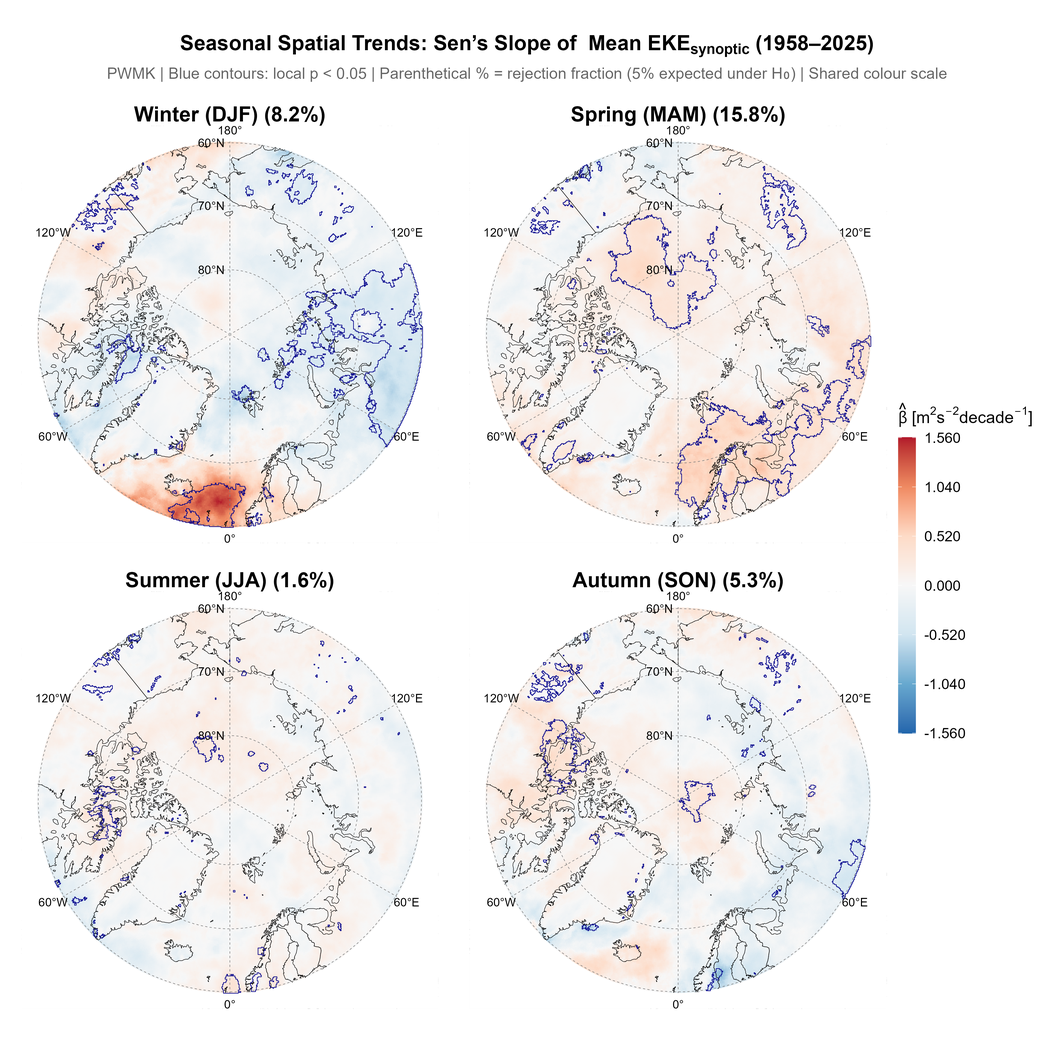
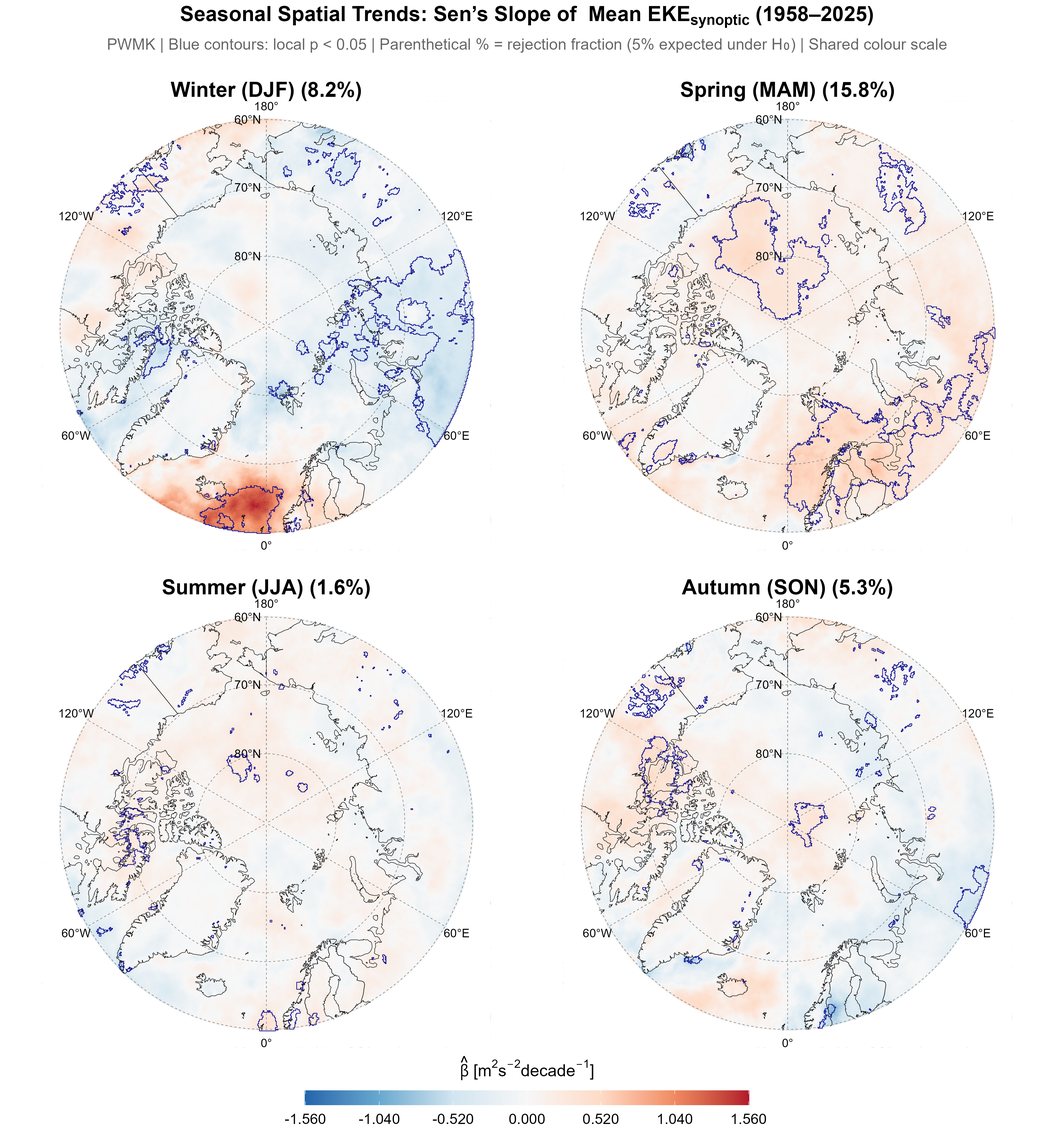
plots colorbar position

diff --git a/Storminess_analysis_full_framework.html b/Storminess_analysis_full_framework.html
@@ -4989,9 +4989,9 @@ Significant trends by season (α = 0.05 ):</code></pre>
 <span id="cb477-161"><a href="#cb477-161" aria-hidden="true" tabindex="-1"></a>  }</span>
 <span id="cb477-162"><a href="#cb477-162" aria-hidden="true" tabindex="-1"></a>}</span></code><button title="Copy to Clipboard" class="code-copy-button"><i class="bi"></i></button></pre></div>
 <div class="cell-output cell-output-stdout">
-<pre><code>[16:46:47 | +0.0 min] CACHE HIT: Loading precomputed spatial results from disk.
-[16:46:47 | +0.0 min]   Loaded 5 variable(s): eke_synoptic_mean, eke_p90, eke_p95, eke_p99, exceed_p95_freq
-[16:46:47 | +0.0 min]   All requested variables present. Skipping to PART B (figures).</code></pre>
+<pre><code>[18:06:42 | +0.0 min] CACHE HIT: Loading precomputed spatial results from disk.
+[18:06:42 | +0.0 min]   Loaded 5 variable(s): eke_synoptic_mean, eke_p90, eke_p95, eke_p99, exceed_p95_freq
+[18:06:42 | +0.0 min]   All requested variables present. Skipping to PART B (figures).</code></pre>
 </div>
 <div class="sourceCode cell-code" id="cb479"><pre class="sourceCode r code-with-copy"><code class="sourceCode r"><span id="cb479-1"><a href="#cb479-1" aria-hidden="true" tabindex="-1"></a><span class="cf">if</span> (<span class="sc">!</span><span class="fu">file.exists</span>(RESULTS_FILE) <span class="sc">||</span> FORCE_RECOMPUTE) {</span>
 <span id="cb479-2"><a href="#cb479-2" aria-hidden="true" tabindex="-1"></a></span>
@@ -5321,7 +5321,7 @@ Significant trends by season (α = 0.05 ):</code></pre>
 <span id="cb479-326"><a href="#cb479-326" aria-hidden="true" tabindex="-1"></a></span>
 <span id="cb479-327"><a href="#cb479-327" aria-hidden="true" tabindex="-1"></a><span class="fu">progress_msg</span>(<span class="st">"PHASE 3.4 PART B: GENERATING FIGURES"</span>)</span></code><button title="Copy to Clipboard" class="code-copy-button"><i class="bi"></i></button></pre></div>
 <div class="cell-output cell-output-stdout">
-<pre><code>[16:46:47 | +0.0 min] PHASE 3.4 PART B: GENERATING FIGURES</code></pre>
+<pre><code>[18:06:42 | +0.0 min] PHASE 3.4 PART B: GENERATING FIGURES</code></pre>
 </div>
 <div class="sourceCode cell-code" id="cb481"><pre class="sourceCode r code-with-copy"><code class="sourceCode r"><span id="cb481-1"><a href="#cb481-1" aria-hidden="true" tabindex="-1"></a><span class="fu">cat</span>(<span class="fu">rep</span>(<span class="st">"="</span>, <span class="dv">70</span>), <span class="st">"</span><span class="sc">\n\n</span><span class="st">"</span>)</span></code><button title="Copy to Clipboard" class="code-copy-button"><i class="bi"></i></button></pre></div>
 <div class="cell-output cell-output-stdout">
@@ -5377,7 +5377,7 @@ Significant trends by season (α = 0.05 ):</code></pre>
 <div class="sourceCode cell-code" id="cb494"><pre class="sourceCode r code-with-copy"><code class="sourceCode r"><span id="cb494-1"><a href="#cb494-1" aria-hidden="true" tabindex="-1"></a><span class="co"># ── B1: Cartographic setup ─────────────────────────────────────────────────</span></span>
 <span id="cb494-2"><a href="#cb494-2" aria-hidden="true" tabindex="-1"></a><span class="fu">progress_msg</span>(<span class="st">"B1: Setting up cartographic elements..."</span>)</span></code><button title="Copy to Clipboard" class="code-copy-button"><i class="bi"></i></button></pre></div>
 <div class="cell-output cell-output-stdout">
-<pre><code>[16:46:47 | +0.0 min] B1: Setting up cartographic elements...</code></pre>
+<pre><code>[18:06:42 | +0.0 min] B1: Setting up cartographic elements...</code></pre>
 </div>
 <div class="sourceCode cell-code" id="cb496"><pre class="sourceCode r code-with-copy"><code class="sourceCode r"><span id="cb496-1"><a href="#cb496-1" aria-hidden="true" tabindex="-1"></a>arctic_crs  <span class="ot">&lt;-</span> <span class="st">"+proj=laea +lat_0=90 +lon_0=0"</span></span>
 <span id="cb496-2"><a href="#cb496-2" aria-hidden="true" tabindex="-1"></a>view_radius <span class="ot">&lt;-</span> <span class="dv">3330000</span>   <span class="co"># clips at ~60 N data boundary</span></span>
@@ -5420,7 +5420,7 @@ Significant trends by season (α = 0.05 ):</code></pre>
 <span id="cb496-39"><a href="#cb496-39" aria-hidden="true" tabindex="-1"></a></span>
 <span id="cb496-40"><a href="#cb496-40" aria-hidden="true" tabindex="-1"></a><span class="fu">progress_msg</span>(<span class="st">"  Cartographic elements ready."</span>)</span></code><button title="Copy to Clipboard" class="code-copy-button"><i class="bi"></i></button></pre></div>
 <div class="cell-output cell-output-stdout">
-<pre><code>[16:46:47 | +0.0 min]   Cartographic elements ready.</code></pre>
+<pre><code>[18:06:42 | +0.0 min]   Cartographic elements ready.</code></pre>
 </div>
 <div class="sourceCode cell-code" id="cb498"><pre class="sourceCode r code-with-copy"><code class="sourceCode r"><span id="cb498-1"><a href="#cb498-1" aria-hidden="true" tabindex="-1"></a><span class="co"># ── B2: Plotting helpers ───────────────────────────────────────────────────</span></span>
 <span id="cb498-2"><a href="#cb498-2" aria-hidden="true" tabindex="-1"></a>make_stars_polar <span class="ot">&lt;-</span> <span class="cf">function</span>(mat, <span class="at">varname =</span> <span class="st">"value"</span>) {</span>
@@ -5586,129 +5586,160 @@ Significant trends by season (α = 0.05 ):</code></pre>
 <span id="cb498-162"><a href="#cb498-162" aria-hidden="true" tabindex="-1"></a>      <span class="st">"PWMK | Blue contours: local p &lt; {ALPHA_LOCAL} "</span>,</span>
 <span id="cb498-163"><a href="#cb498-163" aria-hidden="true" tabindex="-1"></a>      <span class="st">"({pct_ann}% of grid points; {ALPHA_LOCAL*100}% expected under H\u2080)"</span></span>
 <span id="cb498-164"><a href="#cb498-164" aria-hidden="true" tabindex="-1"></a>    )) <span class="sc">+</span></span>
-<span id="cb498-165"><a href="#cb498-165" aria-hidden="true" tabindex="-1"></a>    <span class="fu">theme</span>(<span class="at">plot.subtitle =</span> <span class="fu">element_text</span>(<span class="at">size =</span> SUBTITLE_SIZE, <span class="at">colour =</span> <span class="st">"grey40"</span>, <span class="at">hjust =</span> <span class="fl">0.5</span>))</span>
-<span id="cb498-166"><a href="#cb498-166" aria-hidden="true" tabindex="-1"></a></span>
-<span id="cb498-167"><a href="#cb498-167" aria-hidden="true" tabindex="-1"></a>  <span class="fu">ggsave</span>(<span class="fu">file.path</span>(FIG_PHASE3, cfg<span class="sc">$</span>fig_annual),</span>
-<span id="cb498-168"><a href="#cb498-168" aria-hidden="true" tabindex="-1"></a>         p_ann, <span class="at">width =</span> <span class="dv">10</span>, <span class="at">height =</span> <span class="dv">10</span>, <span class="at">dpi =</span> <span class="dv">300</span>, <span class="at">bg =</span> <span class="st">"white"</span>)</span>
-<span id="cb498-169"><a href="#cb498-169" aria-hidden="true" tabindex="-1"></a>  <span class="fu">progress_msg</span>(<span class="fu">sprintf</span>(<span class="st">"    Saved: %s"</span>, cfg<span class="sc">$</span>fig_annual))</span>
-<span id="cb498-170"><a href="#cb498-170" aria-hidden="true" tabindex="-1"></a></span>
-<span id="cb498-171"><a href="#cb498-171" aria-hidden="true" tabindex="-1"></a>  <span class="fu">rm</span>(slope_stars, sig_stars, p_ann)</span>
-<span id="cb498-172"><a href="#cb498-172" aria-hidden="true" tabindex="-1"></a></span>
-<span id="cb498-173"><a href="#cb498-173" aria-hidden="true" tabindex="-1"></a>  <span class="co"># ── Seasonal maps (2x2) ────────────────────────────────────────────────</span></span>
-<span id="cb498-174"><a href="#cb498-174" aria-hidden="true" tabindex="-1"></a>  <span class="co"># Shared scale across all four seasons: true max of absolute slopes</span></span>
-<span id="cb498-175"><a href="#cb498-175" aria-hidden="true" tabindex="-1"></a>  <span class="co"># across every season, so panels are directly comparable in magnitude.</span></span>
-<span id="cb498-176"><a href="#cb498-176" aria-hidden="true" tabindex="-1"></a>  slope_lim_seas <span class="ot">&lt;-</span> <span class="fu">max</span>(</span>
-<span id="cb498-177"><a href="#cb498-177" aria-hidden="true" tabindex="-1"></a>    <span class="fu">sapply</span>(res<span class="sc">$</span>seasonal, <span class="cf">function</span>(x) <span class="fu">max</span>(<span class="fu">abs</span>(x<span class="sc">$</span>slope), <span class="at">na.rm =</span> <span class="cn">TRUE</span>))</span>
-<span id="cb498-178"><a href="#cb498-178" aria-hidden="true" tabindex="-1"></a>  )</span>
-<span id="cb498-179"><a href="#cb498-179" aria-hidden="true" tabindex="-1"></a>  breaks_seas <span class="ot">&lt;-</span> <span class="fu">pretty_breaks_sym</span>(slope_lim_seas, <span class="at">n =</span> <span class="dv">7</span>L, <span class="at">max_dec =</span> cfg<span class="sc">$</span>max_dec)</span>
-<span id="cb498-180"><a href="#cb498-180" aria-hidden="true" tabindex="-1"></a></span>
-<span id="cb498-181"><a href="#cb498-181" aria-hidden="true" tabindex="-1"></a>  season_panels <span class="ot">&lt;-</span> <span class="fu">list</span>()</span>
-<span id="cb498-182"><a href="#cb498-182" aria-hidden="true" tabindex="-1"></a></span>
-<span id="cb498-183"><a href="#cb498-183" aria-hidden="true" tabindex="-1"></a>  <span class="cf">for</span> (seas <span class="cf">in</span> SEASONS) {</span>
-<span id="cb498-184"><a href="#cb498-184" aria-hidden="true" tabindex="-1"></a>    sr    <span class="ot">&lt;-</span> res<span class="sc">$</span>seasonal[[seas]]</span>
-<span id="cb498-185"><a href="#cb498-185" aria-hidden="true" tabindex="-1"></a>    sl_st <span class="ot">&lt;-</span> <span class="fu">make_stars_polar</span>(sr<span class="sc">$</span>slope, <span class="st">"slope"</span>)</span>
-<span id="cb498-186"><a href="#cb498-186" aria-hidden="true" tabindex="-1"></a>    sg_st <span class="ot">&lt;-</span> <span class="fu">make_stars_polar</span>(</span>
-<span id="cb498-187"><a href="#cb498-187" aria-hidden="true" tabindex="-1"></a>      <span class="fu">matrix</span>(<span class="fu">as.integer</span>(sr<span class="sc">$</span>sig_local), n_lat, n_lon), <span class="st">"sig_mask"</span>  <span class="co"># &lt;-- local p</span></span>
-<span id="cb498-188"><a href="#cb498-188" aria-hidden="true" tabindex="-1"></a>    )</span>
-<span id="cb498-189"><a href="#cb498-189" aria-hidden="true" tabindex="-1"></a></span>
-<span id="cb498-190"><a href="#cb498-190" aria-hidden="true" tabindex="-1"></a>    fill_s <span class="ot">&lt;-</span> <span class="fu">scale_fill_distiller</span>(</span>
-<span id="cb498-191"><a href="#cb498-191" aria-hidden="true" tabindex="-1"></a>      <span class="at">name      =</span> cfg<span class="sc">$</span>unit_expr,</span>
-<span id="cb498-192"><a href="#cb498-192" aria-hidden="true" tabindex="-1"></a>      <span class="at">palette   =</span> <span class="st">"RdBu"</span>,</span>
-<span id="cb498-193"><a href="#cb498-193" aria-hidden="true" tabindex="-1"></a>      <span class="at">direction =</span> <span class="sc">-</span><span class="dv">1</span>,</span>
-<span id="cb498-194"><a href="#cb498-194" aria-hidden="true" tabindex="-1"></a>      <span class="at">limits    =</span> <span class="fu">range</span>(breaks_seas),</span>
-<span id="cb498-195"><a href="#cb498-195" aria-hidden="true" tabindex="-1"></a>      <span class="at">breaks    =</span> breaks_seas,</span>
-<span id="cb498-196"><a href="#cb498-196" aria-hidden="true" tabindex="-1"></a>      <span class="at">labels    =</span> scales<span class="sc">::</span><span class="fu">label_number</span>(<span class="at">accuracy =</span> <span class="dv">5</span> <span class="sc">*</span> <span class="dv">10</span><span class="sc">^</span>(<span class="sc">-</span>cfg<span class="sc">$</span>max_dec)),</span>
-<span id="cb498-197"><a href="#cb498-197" aria-hidden="true" tabindex="-1"></a>      <span class="at">na.value  =</span> <span class="st">"transparent"</span>,</span>
-<span id="cb498-198"><a href="#cb498-198" aria-hidden="true" tabindex="-1"></a>      <span class="at">oob       =</span> scales<span class="sc">::</span>squish</span>
+<span id="cb498-165"><a href="#cb498-165" aria-hidden="true" tabindex="-1"></a>    <span class="fu">theme</span>(</span>
+<span id="cb498-166"><a href="#cb498-166" aria-hidden="true" tabindex="-1"></a>      <span class="at">plot.subtitle     =</span> <span class="fu">element_text</span>(<span class="at">size =</span> SUBTITLE_SIZE, <span class="at">colour =</span> <span class="st">"grey40"</span>,</span>
+<span id="cb498-167"><a href="#cb498-167" aria-hidden="true" tabindex="-1"></a>                                       <span class="at">hjust =</span> <span class="fl">0.5</span>, <span class="at">margin =</span> <span class="fu">margin</span>(<span class="at">b =</span> <span class="dv">15</span>)),</span>
+<span id="cb498-168"><a href="#cb498-168" aria-hidden="true" tabindex="-1"></a>      <span class="at">legend.position   =</span> <span class="st">"bottom"</span>,</span>
+<span id="cb498-169"><a href="#cb498-169" aria-hidden="true" tabindex="-1"></a>      <span class="at">legend.direction  =</span> <span class="st">"horizontal"</span>,</span>
+<span id="cb498-170"><a href="#cb498-170" aria-hidden="true" tabindex="-1"></a>      <span class="at">legend.title.position =</span> <span class="st">"top"</span>,</span>
+<span id="cb498-171"><a href="#cb498-171" aria-hidden="true" tabindex="-1"></a>      <span class="at">legend.title      =</span> <span class="fu">element_text</span>(<span class="at">size =</span> BASE_SIZE, <span class="at">hjust =</span> <span class="fl">0.5</span>),</span>
+<span id="cb498-172"><a href="#cb498-172" aria-hidden="true" tabindex="-1"></a>      <span class="at">legend.key.width  =</span> <span class="fu">unit</span>(<span class="fl">3.0</span>, <span class="st">"cm"</span>),</span>
+<span id="cb498-173"><a href="#cb498-173" aria-hidden="true" tabindex="-1"></a>      <span class="at">legend.key.height =</span> <span class="fu">unit</span>(<span class="fl">0.5</span>, <span class="st">"cm"</span>),</span>
+<span id="cb498-174"><a href="#cb498-174" aria-hidden="true" tabindex="-1"></a>      <span class="at">plot.margin       =</span> <span class="fu">margin</span>(<span class="dv">10</span>, <span class="dv">10</span>, <span class="dv">10</span>, <span class="dv">10</span>)</span>
+<span id="cb498-175"><a href="#cb498-175" aria-hidden="true" tabindex="-1"></a>    ) <span class="sc">+</span></span>
+<span id="cb498-176"><a href="#cb498-176" aria-hidden="true" tabindex="-1"></a>    <span class="fu">guides</span>(<span class="at">fill =</span> <span class="fu">guide_colorbar</span>(<span class="at">title.position =</span> <span class="st">"top"</span>, <span class="at">title.hjust =</span> <span class="fl">0.5</span>))</span>
+<span id="cb498-177"><a href="#cb498-177" aria-hidden="true" tabindex="-1"></a></span>
+<span id="cb498-178"><a href="#cb498-178" aria-hidden="true" tabindex="-1"></a>  <span class="fu">ggsave</span>(<span class="fu">file.path</span>(FIG_PHASE3, cfg<span class="sc">$</span>fig_annual),</span>
+<span id="cb498-179"><a href="#cb498-179" aria-hidden="true" tabindex="-1"></a>         p_ann, <span class="at">width =</span> <span class="dv">10</span>, <span class="at">height =</span> <span class="dv">11</span>, <span class="at">dpi =</span> <span class="dv">300</span>, <span class="at">bg =</span> <span class="st">"white"</span>)</span>
+<span id="cb498-180"><a href="#cb498-180" aria-hidden="true" tabindex="-1"></a>  <span class="fu">progress_msg</span>(<span class="fu">sprintf</span>(<span class="st">"    Saved: %s"</span>, cfg<span class="sc">$</span>fig_annual))</span>
+<span id="cb498-181"><a href="#cb498-181" aria-hidden="true" tabindex="-1"></a></span>
+<span id="cb498-182"><a href="#cb498-182" aria-hidden="true" tabindex="-1"></a>  <span class="fu">rm</span>(slope_stars, sig_stars, p_ann)</span>
+<span id="cb498-183"><a href="#cb498-183" aria-hidden="true" tabindex="-1"></a></span>
+<span id="cb498-184"><a href="#cb498-184" aria-hidden="true" tabindex="-1"></a>  <span class="co"># ── Seasonal maps (2x2) ────────────────────────────────────────────────</span></span>
+<span id="cb498-185"><a href="#cb498-185" aria-hidden="true" tabindex="-1"></a>  <span class="co"># Shared scale across all four seasons: true max of absolute slopes</span></span>
+<span id="cb498-186"><a href="#cb498-186" aria-hidden="true" tabindex="-1"></a>  <span class="co"># across every season, so panels are directly comparable in magnitude.</span></span>
+<span id="cb498-187"><a href="#cb498-187" aria-hidden="true" tabindex="-1"></a>  slope_lim_seas <span class="ot">&lt;-</span> <span class="fu">max</span>(</span>
+<span id="cb498-188"><a href="#cb498-188" aria-hidden="true" tabindex="-1"></a>    <span class="fu">sapply</span>(res<span class="sc">$</span>seasonal, <span class="cf">function</span>(x) <span class="fu">max</span>(<span class="fu">abs</span>(x<span class="sc">$</span>slope), <span class="at">na.rm =</span> <span class="cn">TRUE</span>))</span>
+<span id="cb498-189"><a href="#cb498-189" aria-hidden="true" tabindex="-1"></a>  )</span>
+<span id="cb498-190"><a href="#cb498-190" aria-hidden="true" tabindex="-1"></a>  breaks_seas <span class="ot">&lt;-</span> <span class="fu">pretty_breaks_sym</span>(slope_lim_seas, <span class="at">n =</span> <span class="dv">7</span>L, <span class="at">max_dec =</span> cfg<span class="sc">$</span>max_dec)</span>
+<span id="cb498-191"><a href="#cb498-191" aria-hidden="true" tabindex="-1"></a></span>
+<span id="cb498-192"><a href="#cb498-192" aria-hidden="true" tabindex="-1"></a>  season_panels <span class="ot">&lt;-</span> <span class="fu">list</span>()</span>
+<span id="cb498-193"><a href="#cb498-193" aria-hidden="true" tabindex="-1"></a></span>
+<span id="cb498-194"><a href="#cb498-194" aria-hidden="true" tabindex="-1"></a>  <span class="cf">for</span> (seas <span class="cf">in</span> SEASONS) {</span>
+<span id="cb498-195"><a href="#cb498-195" aria-hidden="true" tabindex="-1"></a>    sr    <span class="ot">&lt;-</span> res<span class="sc">$</span>seasonal[[seas]]</span>
+<span id="cb498-196"><a href="#cb498-196" aria-hidden="true" tabindex="-1"></a>    sl_st <span class="ot">&lt;-</span> <span class="fu">make_stars_polar</span>(sr<span class="sc">$</span>slope, <span class="st">"slope"</span>)</span>
+<span id="cb498-197"><a href="#cb498-197" aria-hidden="true" tabindex="-1"></a>    sg_st <span class="ot">&lt;-</span> <span class="fu">make_stars_polar</span>(</span>
+<span id="cb498-198"><a href="#cb498-198" aria-hidden="true" tabindex="-1"></a>      <span class="fu">matrix</span>(<span class="fu">as.integer</span>(sr<span class="sc">$</span>sig_local), n_lat, n_lon), <span class="st">"sig_mask"</span>  <span class="co"># &lt;-- local p</span></span>
 <span id="cb498-199"><a href="#cb498-199" aria-hidden="true" tabindex="-1"></a>    )</span>
 <span id="cb498-200"><a href="#cb498-200" aria-hidden="true" tabindex="-1"></a></span>
-<span id="cb498-201"><a href="#cb498-201" aria-hidden="true" tabindex="-1"></a>    <span class="co"># Rejection fraction for this season</span></span>
-<span id="cb498-202"><a href="#cb498-202" aria-hidden="true" tabindex="-1"></a>    n_sig_s <span class="ot">&lt;-</span> <span class="fu">sum</span>(sr<span class="sc">$</span>sig_local, <span class="at">na.rm =</span> <span class="cn">TRUE</span>)</span>
-<span id="cb498-203"><a href="#cb498-203" aria-hidden="true" tabindex="-1"></a>    n_tot_s <span class="ot">&lt;-</span> <span class="fu">sum</span>(<span class="sc">!</span><span class="fu">is.na</span>(sr<span class="sc">$</span>p_local))</span>
-<span id="cb498-204"><a href="#cb498-204" aria-hidden="true" tabindex="-1"></a>    pct_s   <span class="ot">&lt;-</span> <span class="fu">round</span>(<span class="dv">100</span> <span class="sc">*</span> n_sig_s <span class="sc">/</span> n_tot_s, <span class="dv">1</span>)</span>
-<span id="cb498-205"><a href="#cb498-205" aria-hidden="true" tabindex="-1"></a></span>
-<span id="cb498-206"><a href="#cb498-206" aria-hidden="true" tabindex="-1"></a>    season_panels[[seas]] <span class="ot">&lt;-</span> <span class="fu">make_panel</span>(</span>
-<span id="cb498-207"><a href="#cb498-207" aria-hidden="true" tabindex="-1"></a>      <span class="at">stars_obj   =</span> sl_st,</span>
-<span id="cb498-208"><a href="#cb498-208" aria-hidden="true" tabindex="-1"></a>      <span class="at">fill_var    =</span> <span class="st">"slope"</span>,</span>
-<span id="cb498-209"><a href="#cb498-209" aria-hidden="true" tabindex="-1"></a>      <span class="at">fill_scale  =</span> fill_s,</span>
-<span id="cb498-210"><a href="#cb498-210" aria-hidden="true" tabindex="-1"></a>      <span class="at">panel_title =</span> <span class="fu">paste0</span>(<span class="fu">unname</span>(SEASON_NAMES[seas]), <span class="st">" ("</span>, pct_s, <span class="st">"%)"</span>),</span>
-<span id="cb498-211"><a href="#cb498-211" aria-hidden="true" tabindex="-1"></a>      <span class="at">sig_contour =</span> sg_st</span>
-<span id="cb498-212"><a href="#cb498-212" aria-hidden="true" tabindex="-1"></a>    )</span>
-<span id="cb498-213"><a href="#cb498-213" aria-hidden="true" tabindex="-1"></a>  }</span>
-<span id="cb498-214"><a href="#cb498-214" aria-hidden="true" tabindex="-1"></a></span>
-<span id="cb498-215"><a href="#cb498-215" aria-hidden="true" tabindex="-1"></a>  fig_seas <span class="ot">&lt;-</span> (season_panels[[<span class="st">"DJF"</span>]] <span class="sc">+</span> season_panels[[<span class="st">"MAM"</span>]] <span class="sc">+</span></span>
-<span id="cb498-216"><a href="#cb498-216" aria-hidden="true" tabindex="-1"></a>                season_panels[[<span class="st">"JJA"</span>]] <span class="sc">+</span> season_panels[[<span class="st">"SON"</span>]]) <span class="sc">+</span></span>
-<span id="cb498-217"><a href="#cb498-217" aria-hidden="true" tabindex="-1"></a>    <span class="fu">plot_layout</span>(<span class="at">ncol =</span> <span class="dv">2</span>, <span class="at">guides =</span> <span class="st">"collect"</span>) <span class="sc">+</span></span>
-<span id="cb498-218"><a href="#cb498-218" aria-hidden="true" tabindex="-1"></a>    <span class="fu">plot_annotation</span>(</span>
-<span id="cb498-219"><a href="#cb498-219" aria-hidden="true" tabindex="-1"></a>      <span class="at">title =</span> <span class="fu">parse</span>(<span class="at">text =</span> <span class="fu">paste0</span>(</span>
-<span id="cb498-220"><a href="#cb498-220" aria-hidden="true" tabindex="-1"></a>        <span class="st">'bold("Seasonal Spatial Trends: Sen\u2019s Slope of "~'</span>,</span>
-<span id="cb498-221"><a href="#cb498-221" aria-hidden="true" tabindex="-1"></a>        VAR_LABELS_SHORT[[vname]],</span>
-<span id="cb498-222"><a href="#cb498-222" aria-hidden="true" tabindex="-1"></a>        <span class="st">'~"(1958\u20132025)")'</span></span>
-<span id="cb498-223"><a href="#cb498-223" aria-hidden="true" tabindex="-1"></a>      ))[[<span class="dv">1</span>]],</span>
-<span id="cb498-224"><a href="#cb498-224" aria-hidden="true" tabindex="-1"></a>      <span class="at">subtitle =</span> <span class="fu">glue</span>(</span>
-<span id="cb498-225"><a href="#cb498-225" aria-hidden="true" tabindex="-1"></a>        <span class="st">"PWMK | Blue contours: local p &lt; {ALPHA_LOCAL} "</span>,</span>
-<span id="cb498-226"><a href="#cb498-226" aria-hidden="true" tabindex="-1"></a>        <span class="st">"| Parenthetical % = rejection fraction "</span>,</span>
-<span id="cb498-227"><a href="#cb498-227" aria-hidden="true" tabindex="-1"></a>        <span class="st">"(5% expected under H\u2080) | Shared colour scale"</span></span>
-<span id="cb498-228"><a href="#cb498-228" aria-hidden="true" tabindex="-1"></a>      ),</span>
-<span id="cb498-229"><a href="#cb498-229" aria-hidden="true" tabindex="-1"></a>      <span class="at">theme =</span> <span class="fu">theme</span>(</span>
-<span id="cb498-230"><a href="#cb498-230" aria-hidden="true" tabindex="-1"></a>        <span class="at">plot.title    =</span> <span class="fu">element_text</span>(<span class="at">face =</span> <span class="st">"bold"</span>, <span class="at">size =</span> TITLE_SIZE, <span class="at">hjust =</span> <span class="fl">0.5</span>),</span>
-<span id="cb498-231"><a href="#cb498-231" aria-hidden="true" tabindex="-1"></a>        <span class="at">plot.subtitle =</span> <span class="fu">element_text</span>(<span class="at">size =</span> SUBTITLE_SIZE, <span class="at">colour =</span> <span class="st">"grey40"</span>, <span class="at">hjust =</span> <span class="fl">0.5</span>)</span>
-<span id="cb498-232"><a href="#cb498-232" aria-hidden="true" tabindex="-1"></a>      )</span>
-<span id="cb498-233"><a href="#cb498-233" aria-hidden="true" tabindex="-1"></a>    )</span>
-<span id="cb498-234"><a href="#cb498-234" aria-hidden="true" tabindex="-1"></a></span>
-<span id="cb498-235"><a href="#cb498-235" aria-hidden="true" tabindex="-1"></a>  <span class="fu">ggsave</span>(<span class="fu">file.path</span>(FIG_PHASE3, cfg<span class="sc">$</span>fig_seasonal),</span>
-<span id="cb498-236"><a href="#cb498-236" aria-hidden="true" tabindex="-1"></a>         fig_seas, <span class="at">width =</span> <span class="dv">14</span>, <span class="at">height =</span> <span class="dv">14</span>, <span class="at">dpi =</span> <span class="dv">300</span>, <span class="at">bg =</span> <span class="st">"white"</span>)</span>
-<span id="cb498-237"><a href="#cb498-237" aria-hidden="true" tabindex="-1"></a>  <span class="fu">progress_msg</span>(<span class="fu">sprintf</span>(<span class="st">"    Saved: %s"</span>, cfg<span class="sc">$</span>fig_seasonal))</span>
-<span id="cb498-238"><a href="#cb498-238" aria-hidden="true" tabindex="-1"></a></span>
-<span id="cb498-239"><a href="#cb498-239" aria-hidden="true" tabindex="-1"></a>  <span class="fu">rm</span>(season_panels, fig_seas)</span>
-<span id="cb498-240"><a href="#cb498-240" aria-hidden="true" tabindex="-1"></a>  <span class="fu">gc</span>(<span class="at">verbose =</span> <span class="cn">FALSE</span>)</span>
-<span id="cb498-241"><a href="#cb498-241" aria-hidden="true" tabindex="-1"></a>}</span></code><button title="Copy to Clipboard" class="code-copy-button"><i class="bi"></i></button></pre></div>
+<span id="cb498-201"><a href="#cb498-201" aria-hidden="true" tabindex="-1"></a>    fill_s <span class="ot">&lt;-</span> <span class="fu">scale_fill_distiller</span>(</span>
+<span id="cb498-202"><a href="#cb498-202" aria-hidden="true" tabindex="-1"></a>      <span class="at">name      =</span> cfg<span class="sc">$</span>unit_expr,</span>
+<span id="cb498-203"><a href="#cb498-203" aria-hidden="true" tabindex="-1"></a>      <span class="at">palette   =</span> <span class="st">"RdBu"</span>,</span>
+<span id="cb498-204"><a href="#cb498-204" aria-hidden="true" tabindex="-1"></a>      <span class="at">direction =</span> <span class="sc">-</span><span class="dv">1</span>,</span>
+<span id="cb498-205"><a href="#cb498-205" aria-hidden="true" tabindex="-1"></a>      <span class="at">limits    =</span> <span class="fu">range</span>(breaks_seas),</span>
+<span id="cb498-206"><a href="#cb498-206" aria-hidden="true" tabindex="-1"></a>      <span class="at">breaks    =</span> breaks_seas,</span>
+<span id="cb498-207"><a href="#cb498-207" aria-hidden="true" tabindex="-1"></a>      <span class="at">labels    =</span> scales<span class="sc">::</span><span class="fu">label_number</span>(<span class="at">accuracy =</span> <span class="dv">5</span> <span class="sc">*</span> <span class="dv">10</span><span class="sc">^</span>(<span class="sc">-</span>cfg<span class="sc">$</span>max_dec)),</span>
+<span id="cb498-208"><a href="#cb498-208" aria-hidden="true" tabindex="-1"></a>      <span class="at">na.value  =</span> <span class="st">"transparent"</span>,</span>
+<span id="cb498-209"><a href="#cb498-209" aria-hidden="true" tabindex="-1"></a>      <span class="at">oob       =</span> scales<span class="sc">::</span>squish</span>
+<span id="cb498-210"><a href="#cb498-210" aria-hidden="true" tabindex="-1"></a>    )</span>
+<span id="cb498-211"><a href="#cb498-211" aria-hidden="true" tabindex="-1"></a></span>
+<span id="cb498-212"><a href="#cb498-212" aria-hidden="true" tabindex="-1"></a>    <span class="co"># Rejection fraction for this season</span></span>
+<span id="cb498-213"><a href="#cb498-213" aria-hidden="true" tabindex="-1"></a>    n_sig_s <span class="ot">&lt;-</span> <span class="fu">sum</span>(sr<span class="sc">$</span>sig_local, <span class="at">na.rm =</span> <span class="cn">TRUE</span>)</span>
+<span id="cb498-214"><a href="#cb498-214" aria-hidden="true" tabindex="-1"></a>    n_tot_s <span class="ot">&lt;-</span> <span class="fu">sum</span>(<span class="sc">!</span><span class="fu">is.na</span>(sr<span class="sc">$</span>p_local))</span>
+<span id="cb498-215"><a href="#cb498-215" aria-hidden="true" tabindex="-1"></a>    pct_s   <span class="ot">&lt;-</span> <span class="fu">round</span>(<span class="dv">100</span> <span class="sc">*</span> n_sig_s <span class="sc">/</span> n_tot_s, <span class="dv">1</span>)</span>
+<span id="cb498-216"><a href="#cb498-216" aria-hidden="true" tabindex="-1"></a></span>
+<span id="cb498-217"><a href="#cb498-217" aria-hidden="true" tabindex="-1"></a>    season_panels[[seas]] <span class="ot">&lt;-</span> <span class="fu">make_panel</span>(</span>
+<span id="cb498-218"><a href="#cb498-218" aria-hidden="true" tabindex="-1"></a>      <span class="at">stars_obj   =</span> sl_st,</span>
+<span id="cb498-219"><a href="#cb498-219" aria-hidden="true" tabindex="-1"></a>      <span class="at">fill_var    =</span> <span class="st">"slope"</span>,</span>
+<span id="cb498-220"><a href="#cb498-220" aria-hidden="true" tabindex="-1"></a>      <span class="at">fill_scale  =</span> fill_s,</span>
+<span id="cb498-221"><a href="#cb498-221" aria-hidden="true" tabindex="-1"></a>      <span class="at">panel_title =</span> <span class="fu">paste0</span>(<span class="fu">unname</span>(SEASON_NAMES[seas]), <span class="st">" ("</span>, pct_s, <span class="st">"%)"</span>),</span>
+<span id="cb498-222"><a href="#cb498-222" aria-hidden="true" tabindex="-1"></a>      <span class="at">sig_contour =</span> sg_st</span>
+<span id="cb498-223"><a href="#cb498-223" aria-hidden="true" tabindex="-1"></a>    )</span>
+<span id="cb498-224"><a href="#cb498-224" aria-hidden="true" tabindex="-1"></a>  }</span>
+<span id="cb498-225"><a href="#cb498-225" aria-hidden="true" tabindex="-1"></a></span>
+<span id="cb498-226"><a href="#cb498-226" aria-hidden="true" tabindex="-1"></a>  <span class="co"># Style the legend as a horizontal bottom bar on each panel;</span></span>
+<span id="cb498-227"><a href="#cb498-227" aria-hidden="true" tabindex="-1"></a>  <span class="co"># patchwork's guides="collect" will merge them into one.</span></span>
+<span id="cb498-228"><a href="#cb498-228" aria-hidden="true" tabindex="-1"></a>  legend_style <span class="ot">&lt;-</span> <span class="fu">theme</span>(</span>
+<span id="cb498-229"><a href="#cb498-229" aria-hidden="true" tabindex="-1"></a>    <span class="at">legend.direction      =</span> <span class="st">"horizontal"</span>,</span>
+<span id="cb498-230"><a href="#cb498-230" aria-hidden="true" tabindex="-1"></a>    <span class="at">legend.title.position =</span> <span class="st">"top"</span>,</span>
+<span id="cb498-231"><a href="#cb498-231" aria-hidden="true" tabindex="-1"></a>    <span class="at">legend.title          =</span> <span class="fu">element_text</span>(<span class="at">size =</span> BASE_SIZE, <span class="at">hjust =</span> <span class="fl">0.5</span>),</span>
+<span id="cb498-232"><a href="#cb498-232" aria-hidden="true" tabindex="-1"></a>    <span class="at">legend.key.width      =</span> <span class="fu">unit</span>(<span class="fl">3.0</span>, <span class="st">"cm"</span>),</span>
+<span id="cb498-233"><a href="#cb498-233" aria-hidden="true" tabindex="-1"></a>    <span class="at">legend.key.height     =</span> <span class="fu">unit</span>(<span class="fl">0.5</span>, <span class="st">"cm"</span>)</span>
+<span id="cb498-234"><a href="#cb498-234" aria-hidden="true" tabindex="-1"></a>  )</span>
+<span id="cb498-235"><a href="#cb498-235" aria-hidden="true" tabindex="-1"></a>  legend_guide <span class="ot">&lt;-</span> <span class="fu">guides</span>(<span class="at">fill =</span> <span class="fu">guide_colorbar</span>(<span class="at">title.position =</span> <span class="st">"top"</span>,</span>
+<span id="cb498-236"><a href="#cb498-236" aria-hidden="true" tabindex="-1"></a>                                               <span class="at">title.hjust =</span> <span class="fl">0.5</span>))</span>
+<span id="cb498-237"><a href="#cb498-237" aria-hidden="true" tabindex="-1"></a></span>
+<span id="cb498-238"><a href="#cb498-238" aria-hidden="true" tabindex="-1"></a>  <span class="cf">for</span> (seas <span class="cf">in</span> <span class="fu">names</span>(season_panels)) {</span>
+<span id="cb498-239"><a href="#cb498-239" aria-hidden="true" tabindex="-1"></a>    season_panels[[seas]] <span class="ot">&lt;-</span> season_panels[[seas]] <span class="sc">+</span> legend_style <span class="sc">+</span> legend_guide</span>
+<span id="cb498-240"><a href="#cb498-240" aria-hidden="true" tabindex="-1"></a>  }</span>
+<span id="cb498-241"><a href="#cb498-241" aria-hidden="true" tabindex="-1"></a></span>
+<span id="cb498-242"><a href="#cb498-242" aria-hidden="true" tabindex="-1"></a>  <span class="co"># Use guide_area() to place the collected legend in its own bottom row</span></span>
+<span id="cb498-243"><a href="#cb498-243" aria-hidden="true" tabindex="-1"></a>  fig_seas <span class="ot">&lt;-</span> (season_panels[[<span class="st">"DJF"</span>]] <span class="sc">+</span> season_panels[[<span class="st">"MAM"</span>]] <span class="sc">+</span></span>
+<span id="cb498-244"><a href="#cb498-244" aria-hidden="true" tabindex="-1"></a>                season_panels[[<span class="st">"JJA"</span>]] <span class="sc">+</span> season_panels[[<span class="st">"SON"</span>]] <span class="sc">+</span></span>
+<span id="cb498-245"><a href="#cb498-245" aria-hidden="true" tabindex="-1"></a>                <span class="fu">guide_area</span>()) <span class="sc">+</span></span>
+<span id="cb498-246"><a href="#cb498-246" aria-hidden="true" tabindex="-1"></a>    <span class="fu">plot_layout</span>(<span class="at">design =</span> <span class="st">"AB</span><span class="sc">\n</span><span class="st">CD</span><span class="sc">\n</span><span class="st">EE"</span>, <span class="at">guides =</span> <span class="st">"collect"</span>,</span>
+<span id="cb498-247"><a href="#cb498-247" aria-hidden="true" tabindex="-1"></a>                <span class="at">heights =</span> <span class="fu">c</span>(<span class="dv">1</span>, <span class="dv">1</span>, <span class="fl">0.12</span>)) <span class="sc">+</span></span>
+<span id="cb498-248"><a href="#cb498-248" aria-hidden="true" tabindex="-1"></a>    <span class="fu">plot_annotation</span>(</span>
+<span id="cb498-249"><a href="#cb498-249" aria-hidden="true" tabindex="-1"></a>      <span class="at">title =</span> <span class="fu">parse</span>(<span class="at">text =</span> <span class="fu">paste0</span>(</span>
+<span id="cb498-250"><a href="#cb498-250" aria-hidden="true" tabindex="-1"></a>        <span class="st">'bold("Seasonal Spatial Trends: Sen\u2019s Slope of "~'</span>,</span>
+<span id="cb498-251"><a href="#cb498-251" aria-hidden="true" tabindex="-1"></a>        VAR_LABELS_SHORT[[vname]],</span>
+<span id="cb498-252"><a href="#cb498-252" aria-hidden="true" tabindex="-1"></a>        <span class="st">'~"(1958\u20132025)")'</span></span>
+<span id="cb498-253"><a href="#cb498-253" aria-hidden="true" tabindex="-1"></a>      ))[[<span class="dv">1</span>]],</span>
+<span id="cb498-254"><a href="#cb498-254" aria-hidden="true" tabindex="-1"></a>      <span class="at">subtitle =</span> <span class="fu">glue</span>(</span>
+<span id="cb498-255"><a href="#cb498-255" aria-hidden="true" tabindex="-1"></a>        <span class="st">"PWMK | Blue contours: local p &lt; {ALPHA_LOCAL} "</span>,</span>
+<span id="cb498-256"><a href="#cb498-256" aria-hidden="true" tabindex="-1"></a>        <span class="st">"| Parenthetical % = rejection fraction "</span>,</span>
+<span id="cb498-257"><a href="#cb498-257" aria-hidden="true" tabindex="-1"></a>        <span class="st">"(5% expected under H\u2080) | Shared colour scale"</span></span>
+<span id="cb498-258"><a href="#cb498-258" aria-hidden="true" tabindex="-1"></a>      ),</span>
+<span id="cb498-259"><a href="#cb498-259" aria-hidden="true" tabindex="-1"></a>      <span class="at">theme =</span> <span class="fu">theme</span>(</span>
+<span id="cb498-260"><a href="#cb498-260" aria-hidden="true" tabindex="-1"></a>        <span class="at">plot.title    =</span> <span class="fu">element_text</span>(<span class="at">face =</span> <span class="st">"bold"</span>, <span class="at">size =</span> TITLE_SIZE, <span class="at">hjust =</span> <span class="fl">0.5</span>),</span>
+<span id="cb498-261"><a href="#cb498-261" aria-hidden="true" tabindex="-1"></a>        <span class="at">plot.subtitle =</span> <span class="fu">element_text</span>(<span class="at">size =</span> SUBTITLE_SIZE, <span class="at">colour =</span> <span class="st">"grey40"</span>,</span>
+<span id="cb498-262"><a href="#cb498-262" aria-hidden="true" tabindex="-1"></a>                                     <span class="at">hjust =</span> <span class="fl">0.5</span>, <span class="at">margin =</span> <span class="fu">margin</span>(<span class="at">b =</span> <span class="dv">10</span>))</span>
+<span id="cb498-263"><a href="#cb498-263" aria-hidden="true" tabindex="-1"></a>      )</span>
+<span id="cb498-264"><a href="#cb498-264" aria-hidden="true" tabindex="-1"></a>    )</span>
+<span id="cb498-265"><a href="#cb498-265" aria-hidden="true" tabindex="-1"></a></span>
+<span id="cb498-266"><a href="#cb498-266" aria-hidden="true" tabindex="-1"></a>  <span class="fu">ggsave</span>(<span class="fu">file.path</span>(FIG_PHASE3, cfg<span class="sc">$</span>fig_seasonal),</span>
+<span id="cb498-267"><a href="#cb498-267" aria-hidden="true" tabindex="-1"></a>         fig_seas, <span class="at">width =</span> <span class="dv">14</span>, <span class="at">height =</span> <span class="dv">15</span>, <span class="at">dpi =</span> <span class="dv">300</span>, <span class="at">bg =</span> <span class="st">"white"</span>)</span>
+<span id="cb498-268"><a href="#cb498-268" aria-hidden="true" tabindex="-1"></a>  <span class="fu">progress_msg</span>(<span class="fu">sprintf</span>(<span class="st">"    Saved: %s"</span>, cfg<span class="sc">$</span>fig_seasonal))</span>
+<span id="cb498-269"><a href="#cb498-269" aria-hidden="true" tabindex="-1"></a></span>
+<span id="cb498-270"><a href="#cb498-270" aria-hidden="true" tabindex="-1"></a>  <span class="fu">rm</span>(season_panels, fig_seas)</span>
+<span id="cb498-271"><a href="#cb498-271" aria-hidden="true" tabindex="-1"></a>  <span class="fu">gc</span>(<span class="at">verbose =</span> <span class="cn">FALSE</span>)</span>
+<span id="cb498-272"><a href="#cb498-272" aria-hidden="true" tabindex="-1"></a>}</span></code><button title="Copy to Clipboard" class="code-copy-button"><i class="bi"></i></button></pre></div>
 <div class="cell-output cell-output-stdout">
 <pre><code>
  - - - - - - - - - - - - - - - - - - - - - - - - - - - - - - - - - - - - - - - - - - - - - - - - - - 
-[16:46:47 | +0.0 min]   Plotting: eke_synoptic_mean</code></pre>
+[18:06:42 | +0.0 min]   Plotting: eke_synoptic_mean</code></pre>
 </div>
 <div class="cell-output cell-output-stdout">
-<pre><code>[16:46:50 | +0.1 min]     Saved: Fig3.5a_Annual_Trend_Map_EKE_synoptic.png</code></pre>
+<pre><code>[18:06:45 | +0.1 min]     Saved: Fig3.5a_Annual_Trend_Map_EKE_synoptic.png</code></pre>
 </div>
 <div class="cell-output cell-output-stdout">
-<pre><code>[16:46:59 | +0.2 min]     Saved: Fig3.5b_Seasonal_Trend_Maps_EKE_synoptic.png
+<pre><code>[18:06:54 | +0.2 min]     Saved: Fig3.5b_Seasonal_Trend_Maps_EKE_synoptic.png
 
  - - - - - - - - - - - - - - - - - - - - - - - - - - - - - - - - - - - - - - - - - - - - - - - - - - 
-[16:46:59 | +0.2 min]   Plotting: eke_p90</code></pre>
+[18:06:54 | +0.2 min]   Plotting: eke_p90</code></pre>
 </div>
 <div class="cell-output cell-output-stdout">
-<pre><code>[16:47:01 | +0.2 min]     Saved: Fig3.6a_Annual_Trend_Map_P90.png</code></pre>
+<pre><code>[18:06:57 | +0.3 min]     Saved: Fig3.6a_Annual_Trend_Map_P90.png</code></pre>
 </div>
 <div class="cell-output cell-output-stdout">
-<pre><code>[16:47:10 | +0.4 min]     Saved: Fig3.6b_Seasonal_Trend_Maps_P90.png
+<pre><code>[18:07:06 | +0.4 min]     Saved: Fig3.6b_Seasonal_Trend_Maps_P90.png
 
  - - - - - - - - - - - - - - - - - - - - - - - - - - - - - - - - - - - - - - - - - - - - - - - - - - 
-[16:47:10 | +0.4 min]   Plotting: eke_p95</code></pre>
+[18:07:07 | +0.4 min]   Plotting: eke_p95</code></pre>
 </div>
 <div class="cell-output cell-output-stdout">
-<pre><code>[16:47:13 | +0.4 min]     Saved: Fig3.7a_Annual_Trend_Map_P95.png</code></pre>
+<pre><code>[18:07:09 | +0.5 min]     Saved: Fig3.7a_Annual_Trend_Map_P95.png</code></pre>
 </div>
 <div class="cell-output cell-output-stdout">
-<pre><code>[16:47:22 | +0.6 min]     Saved: Fig3.7b_Seasonal_Trend_Maps_P95.png
+<pre><code>[18:07:19 | +0.6 min]     Saved: Fig3.7b_Seasonal_Trend_Maps_P95.png
 
  - - - - - - - - - - - - - - - - - - - - - - - - - - - - - - - - - - - - - - - - - - - - - - - - - - 
-[16:47:22 | +0.6 min]   Plotting: eke_p99</code></pre>
+[18:07:19 | +0.6 min]   Plotting: eke_p99</code></pre>
 </div>
 <div class="cell-output cell-output-stdout">
-<pre><code>[16:47:24 | +0.6 min]     Saved: Fig3.8a_Annual_Trend_Map_P99.png</code></pre>
+<pre><code>[18:07:21 | +0.7 min]     Saved: Fig3.8a_Annual_Trend_Map_P99.png</code></pre>
 </div>
 <div class="cell-output cell-output-stdout">
-<pre><code>[16:47:33 | +0.8 min]     Saved: Fig3.8b_Seasonal_Trend_Maps_P99.png
+<pre><code>[18:07:30 | +0.8 min]     Saved: Fig3.8b_Seasonal_Trend_Maps_P99.png
 
  - - - - - - - - - - - - - - - - - - - - - - - - - - - - - - - - - - - - - - - - - - - - - - - - - - 
-[16:47:34 | +0.8 min]   Plotting: exceed_p95_freq</code></pre>
+[18:07:31 | +0.8 min]   Plotting: exceed_p95_freq</code></pre>
 </div>
 <div class="cell-output cell-output-stdout">
-<pre><code>[16:47:36 | +0.8 min]     Saved: Fig3.9a_Annual_Trend_Map_ExceedFreq.png</code></pre>
+<pre><code>[18:07:33 | +0.9 min]     Saved: Fig3.9a_Annual_Trend_Map_ExceedFreq.png</code></pre>
 </div>
 <div class="cell-output cell-output-stdout">
-<pre><code>[16:47:46 | +1.0 min]     Saved: Fig3.9b_Seasonal_Trend_Maps_ExceedFreq.png</code></pre>
+<pre><code>[18:07:43 | +1.0 min]     Saved: Fig3.9b_Seasonal_Trend_Maps_ExceedFreq.png</code></pre>
 </div>
 <div class="sourceCode cell-code" id="cb510"><pre class="sourceCode r code-with-copy"><code class="sourceCode r"><span id="cb510-1"><a href="#cb510-1" aria-hidden="true" tabindex="-1"></a><span class="co"># ============================================================================</span></span>
 <span id="cb510-2"><a href="#cb510-2" aria-hidden="true" tabindex="-1"></a><span class="co"># FINAL STATUS</span></span>
@@ -5723,7 +5754,7 @@ Significant trends by season (α = 0.05 ):</code></pre>
 </div>
 <div class="sourceCode cell-code" id="cb512"><pre class="sourceCode r code-with-copy"><code class="sourceCode r"><span id="cb512-1"><a href="#cb512-1" aria-hidden="true" tabindex="-1"></a><span class="fu">progress_msg</span>(<span class="fu">sprintf</span>(<span class="st">"PHASE 3.4 COMPLETE. Total time: %.1f minutes."</span>, elapsed_total))</span></code><button title="Copy to Clipboard" class="code-copy-button"><i class="bi"></i></button></pre></div>
 <div class="cell-output cell-output-stdout">
-<pre><code>[16:47:46 | +1.0 min] PHASE 3.4 COMPLETE. Total time: 1.0 minutes.</code></pre>
+<pre><code>[18:07:43 | +1.0 min] PHASE 3.4 COMPLETE. Total time: 1.0 minutes.</code></pre>
 </div>
 <div class="sourceCode cell-code" id="cb514"><pre class="sourceCode r code-with-copy"><code class="sourceCode r"><span id="cb514-1"><a href="#cb514-1" aria-hidden="true" tabindex="-1"></a><span class="fu">cat</span>(<span class="fu">sprintf</span>(<span class="st">"  Results: %s</span><span class="sc">\n</span><span class="st">"</span>, RESULTS_FILE))</span></code><button title="Copy to Clipboard" class="code-copy-button"><i class="bi"></i></button></pre></div>
 <div class="cell-output cell-output-stdout">
